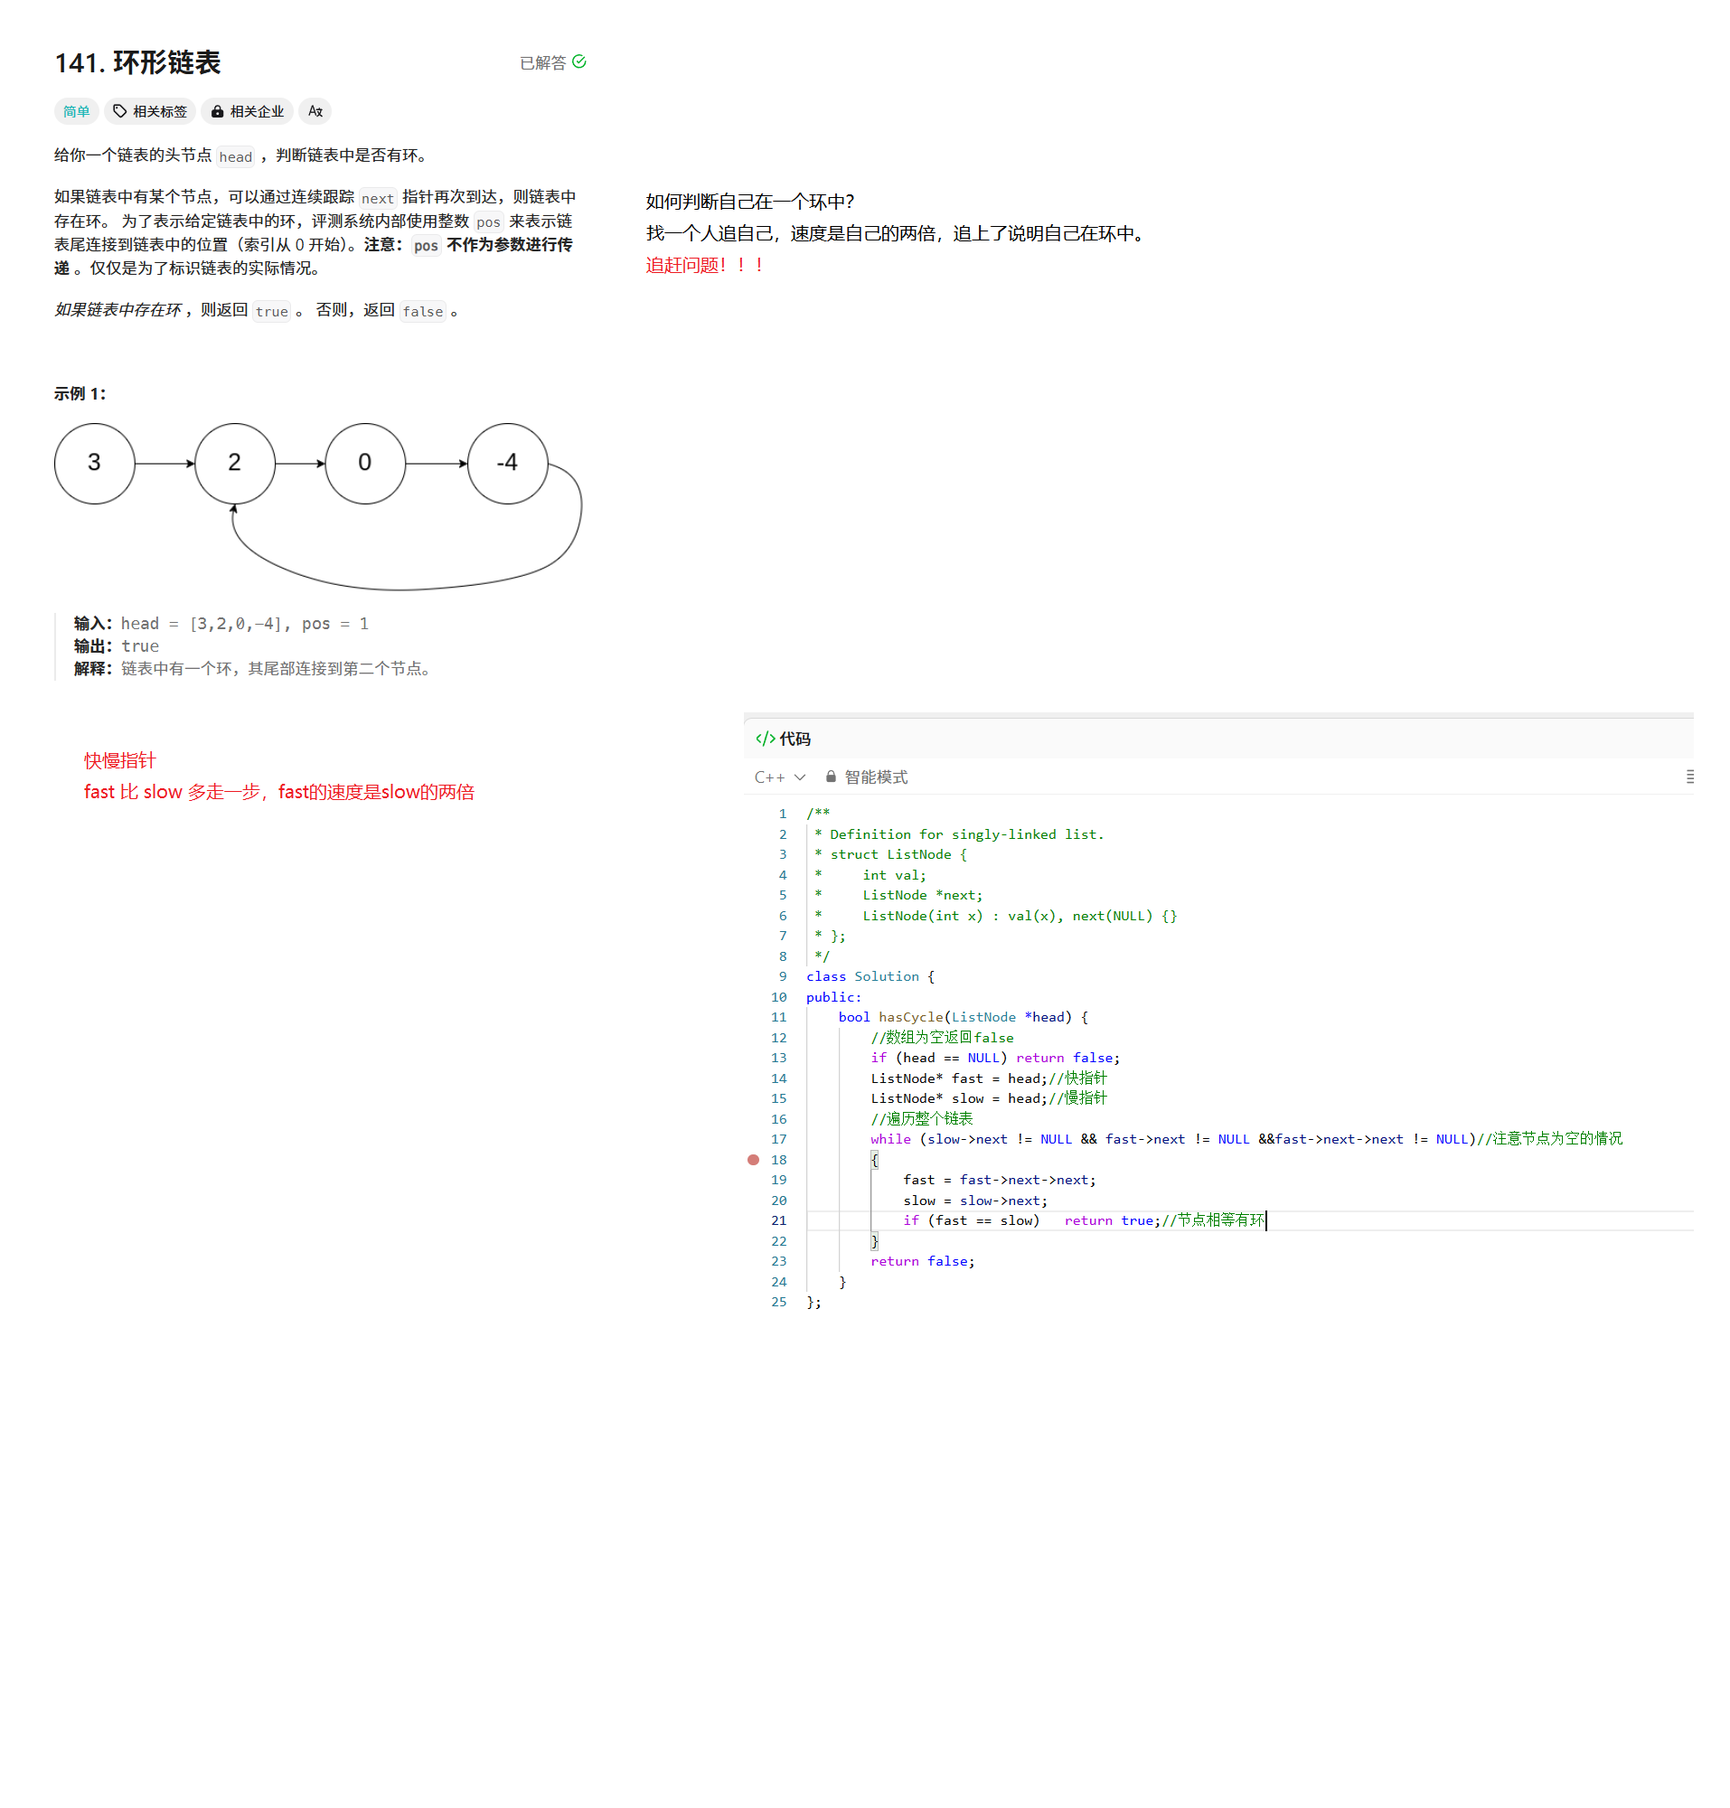
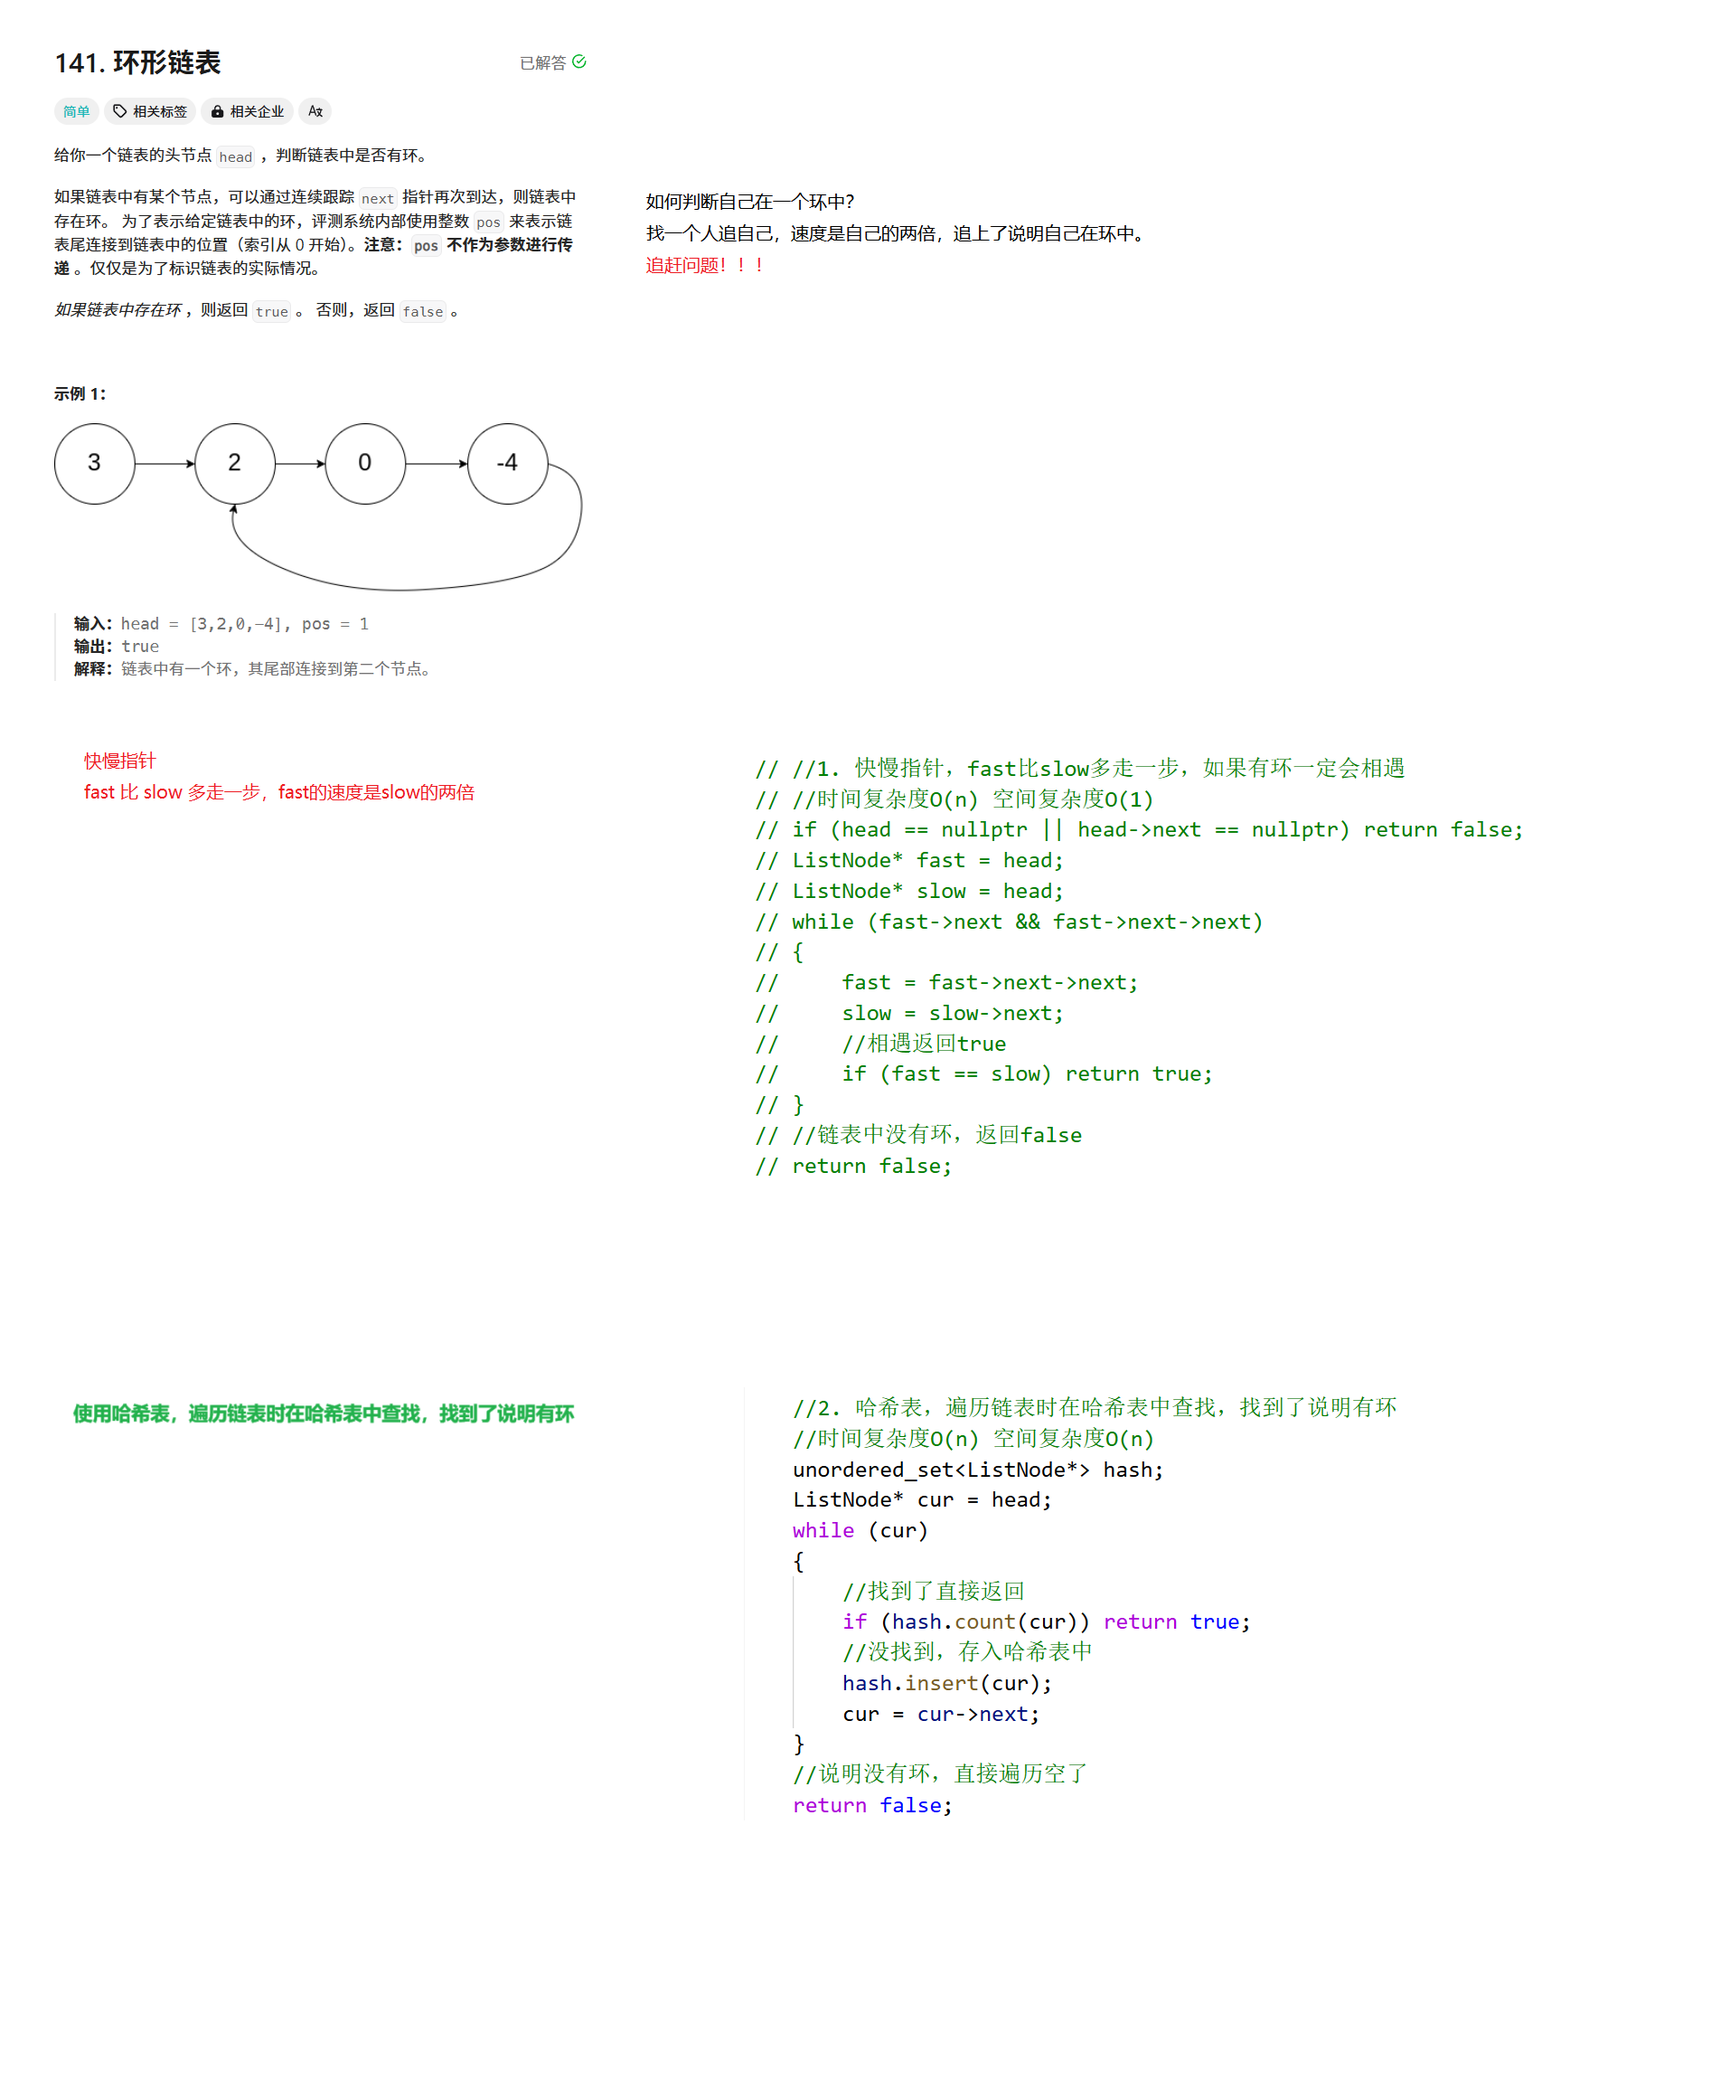
环形链表

diff --git a/链表/链表的基础与总结/环形链表/代码.cpp b/链表/链表的基础与总结/环形链表/代码.cpp
@@ -1,3 +1,5 @@
+//题目链接：https://leetcode.cn/problems/linked-list-cycle/?envType=study-plan-v2&envId=top-100-liked
+
 /**
  * Definition for singly-linked list.
  * struct ListNode {
@@ -6,20 +8,39 @@
  *     ListNode(int x) : val(x), next(NULL) {}
  * };
  */
-class Solution {
+class Solution 
+{
 public:
-    bool hasCycle(ListNode *head) {
-        //数组为空返回false
-        if (head == NULL) return false;
-        ListNode* fast = head;//快指针
-        ListNode* slow = head;//慢指针
-        //遍历整个链表
-        while (slow->next != NULL && fast->next != NULL &&fast->next->next != NULL)//注意节点为空的情况
+    bool hasCycle(ListNode *head) 
+    {
+        // //1. 快慢指针，fast比slow多走一步，如果有环一定会相遇
+        // //时间复杂度O(n) 空间复杂度O(1)
+        // if (head == nullptr || head->next == nullptr) return false;
+        // ListNode* fast = head;
+        // ListNode* slow = head;
+        // while (fast->next && fast->next->next)
+        // {
+        //     fast = fast->next->next;
+        //     slow = slow->next;
+        //     //相遇返回true
+        //     if (fast == slow) return true;
+        // }
+        // //链表中没有环，返回false
+        // return false;
+
+        //2. 哈希表，遍历链表时在哈希表中查找，找到了说明有环
+        //时间复杂度O(n) 空间复杂度O(n)
+        unordered_set<ListNode*> hash;
+        ListNode* cur = head;
+        while (cur)
         {
-            fast = fast->next->next;
-            slow = slow->next;
-            if (fast == slow)   return true;//节点相等有环
+            //找到了直接返回
+            if (hash.count(cur)) return true;
+            //没找到，存入哈希表中
+            hash.insert(cur);
+            cur = cur->next;
         }
+        //说明没有环，直接遍历空了
         return false;
     }
 };
